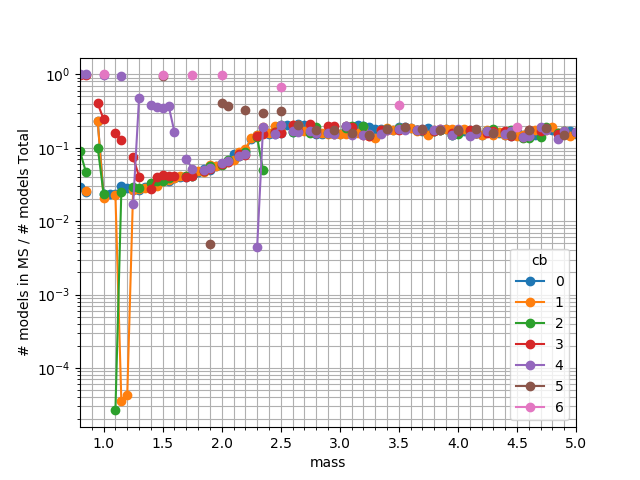
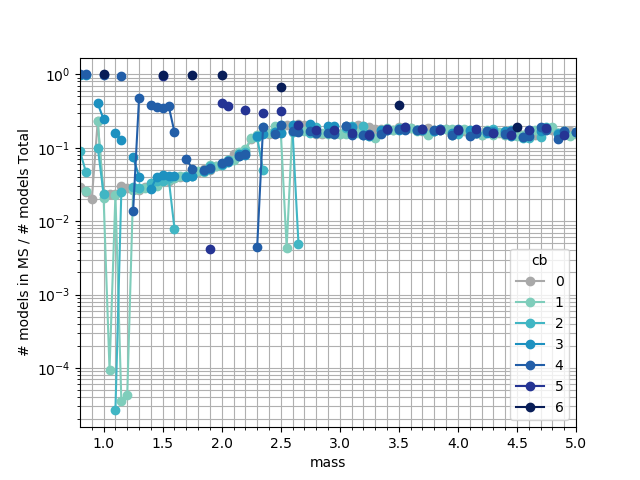
update on small timestep investigation

diff --git a/_defDM/fncs.py b/_defDM/fncs.py
@@ -435,10 +435,8 @@ def get_mods_not_done(cmidx):
 
 
 def plot_runtimes(rcdf, save=None):
-    # all runtimes
+
     rc = rcdf.loc[rcdf.runtime>0,:].copy()
-    # rc.loc[idx[6,1.0],'runtime'] = 19*24*60 # this is a negative number in STD.out
-    #                                         # actual time calculated from file timestamps
     plt.figure(figsize=figsize)
     ax = plt.gca()
     kwargs = {  'ax':ax,

diff --git a/_defDM/main.md b/_defDM/main.md
@@ -118,68 +118,77 @@ export DISPLAY=:11.0
 ``` -->
 ```python
 %run fncs
-# Problem models
-mods = ['m0p90c0','m2p55c1','m1p60c2','m2p65c2', # stopped due to `min_timestep_limit`
-        'm1p05c1'] # still running 2/25
 # Load data
 hdf, pidf, cdf, rcdf = load_all_data(dr=drO, get_history=True, use_reduc=False)
-# rcdf.loc[idx[6,1.0],'runtime'] = 19*24*60 # this is a negative number in STD.out
-#                                         # actual time calculated from file timestamps
+
+# fix runtimes with negative number in STD.out
+# actual time calculated from file timestamps
+minday = 24*60
+rtfix = {   idx[6,1.0]: 19*minday,
+            idx[1,1.15]: 17*minday,
+            idx[1,1.2]: 18.3*minday,
+            idx[2,1.1]: 22.5*minday
+        }
+for i,val in rtfix.items(): rcdf.loc[i,'runtime'] = val
+
+hcols = ['model_number', 'star_age', 'star_mass', 'log_dt','log_LH', 'log_Teff',
+            'log_L', 'center_h1', ]
+h = hdf[hcols]
+
 # see what's done
-plot_runtimes(rcdf, save='runtimes_Feb27.png')
-
-# Get problem models
-# hdfm, pidfm, cdfm, rcdfm = load_all_data(dr=drO, get_history=True, use_reduc=False, mods=mods)
-# reddtdf, probTxdf = load_dt_root_errors(dr=drO, mods=mods)
-
-# combine dfs
-rc = pd.concat([rcdf,rcdfm],sort=True).sort_index()
-h = pd.concat([hdf,hdfm]).sort_index()
-hcols = ['model_number', 'star_age', 'star_mass', 'log_dt','log_LH', 'log_Teff', 'log_L']
-h = h[hcols]
+plot_runtimes(rcdf, save='plots/runtimes_Feb27.png')
 
 # Num models in MS
-MSmods = hdf.groupby(level=['cb','mass']).apply(MSmodels) # df of enter, leave
-MSmodsm = hdfm.groupby(level=['cb','mass']).apply(MSmodels)
-msm = pd.concat([MSmods,MSmodsm]).sort_index() # all models that have run
-msm['numinMS'] = MSmods.leave - MSmods.enter
+MSmods = h.groupby(level=['cb','mass']).apply(MSmodels) # df of enter, leave
+MSmods['numinMS'] = MSmods.leave - MSmods.enter
 pvt = {'index':'mass','columns':'cb','values':'numinMS'}
-args = {'logy':True,'marker':'o'}
-msm.reset_index().pivot(**pvt).plot(**args)
+args = {'logy':True,'marker':'o','color':[cbcmap(cb) for cb in range(7)]}
+MSmods.reset_index().pivot(**pvt).plot(**args)
 plt.ylabel('# Models in MS')
 plt.savefig('plots/numinMS.png')
 
 # Ratio of numinMS/final model_number
-msm['inMS_final'] = MSmods.numinMS/MSmods.final
+MSmods['inMS_final'] = MSmods.numinMS/MSmods.final
 pvt['values'] = 'inMS_final'
-msm.reset_index().pivot(**pvt).plot(**args)
+MSmods.reset_index().pivot(**pvt).plot(**args)
 plt.gca().xaxis.set_minor_locator(AutoMinorLocator())
 plt.grid(True,which='both')
 plt.ylabel('# models in MS / # models Total')
 plt.savefig('plots/inMS_final.png')
 
 # models where either:
-#   runtime < -1
+#   runtime > 1e4
 #   inMS_final < 1e-4
 #   termCode == 'min_timestep_limit'
-probidx = list(rc.loc[rc.runtime<-1,:].index) + \
-        list(rc.loc[rc.termCode=='min_timestep_limit',:].index) + \
-        list(msm.loc[msm.inMS_final<1e-4,:].index).sort()
+probidx =   list(rcdf.loc[rcdf.runtime>1e4,:].index) + \
+            list(rcdf.loc[rcdf.termCode=='min_timestep_limit',:].index) + \
+            list(MSmods.loc[MSmods.inMS_final<1e-4,:].index)
+probidx.sort()
 hprob = h.loc[probidx,:]
-plot_HR(hprob, color='dt', title='problem models', save='plots/probmods_HR2.png')
+plot_HR(hprob, color='dt', title='problem models', save='plots/probmods_HR.png')
 
-# histograms of log_dt
+# histograms of log_dt for problem models
 hdfm.hist(by=['cb','mass'], column='log_dt', bins=25)
 plt.savefig('plots/probmods_logdt_hist.png')
 plt.show(block=False)
 
-# histograms of reduce dt codes
-reddtdf.code.apply(pd.value_counts).plot(kind='bar',by=['cb','mass'],subplots=True)
-plt.savefig('plots/probmods_reddt_hist.png')
-plt.show(block=False)
+# Get problem models STD errors and reduce dt codes
+mods = []
+for (c,m) in probidx:
+    mstr = f'm{int(m)}p{int((m%1)*10)}'
+    if len(mstr) == 4: mstr = f'{mstr}0'
+    mods.append(f'{mstr}c{c}')
+reddtdf, probTxdf = load_dt_root_errors(dr=drO, mods=mods)
 
-title = 'models that quit due to min_timestep_limit', color='dt'
-plot_HR(mtlhdf, color='dt', title=title, save='plots/probmods_HR.png')
+# bar charts of reduce dt codes
+plt.figure(figsize=(6,10))
+pvt = {'index':'code','columns':('cb','mass'),'aggfunc':{'code':len},'fill_value':0}
+reddtdf.pivot_table(**pvt).plot.bar(subplots=True,rot=45,ax=plt.gca(),sharex=True)
+plt.tight_layout()
+plt.savefig('plots/probmods_reddt_codes.png')
+
+# title = 'models that quit due to min_timestep_limit', color='dt'
+# plot_HR(mtlhdf, color='dt', title=title, save='plots/probmods_HR.png')
 
 ```
 
@@ -187,6 +196,9 @@ plot_HR(mtlhdf, color='dt', title=title, save='plots/probmods_HR.png')
 
 <img src="plots/inMS_final.png" alt="plots/inMS_final" width=""/>
 
+<img src="plots/probmods_HR.png" alt="plots/probmods_HR" width="400"/>
+
+<img src="plots/probmods_reddt_codes.png" alt="plots/probmods_reddt_codes" width=""/>
 
 
 
